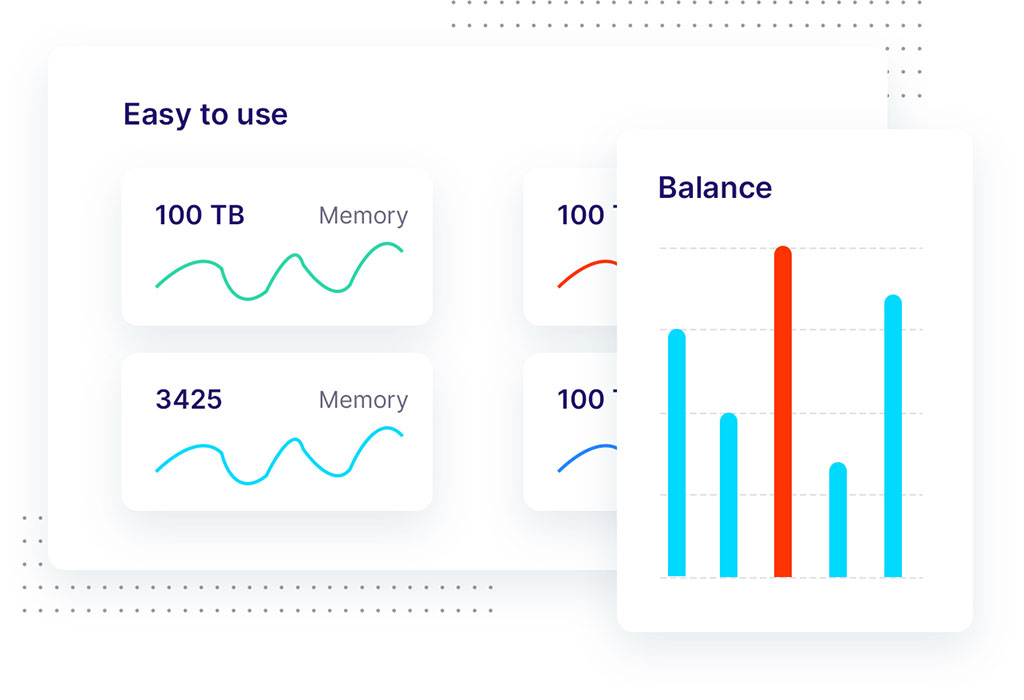
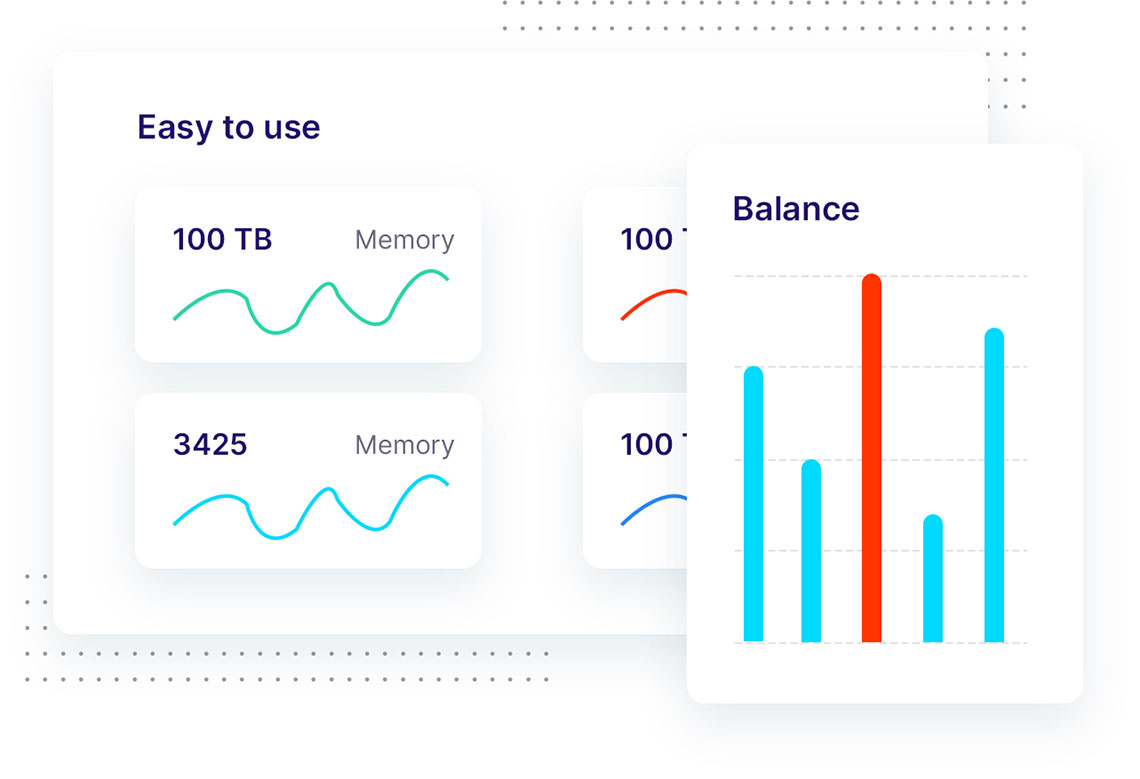
Build showcase block component.

Changed region(s): [[0.125, 0.15, 0.1875, 0.18], [0.6562, 0.27, 0.6875, 0.3], [0.25, 0.15, 0.2812, 0.18]]

diff --git a/index.html b/index.html
@@ -14,119 +14,75 @@
     <link rel="stylesheet" href="css/styles.css" />
   </head>
   <body>
-    <section class="block container">
+    <section class="block block--dark block--skewed-right block-showcase">
       <header class="block__header">
-        <h2>Host on the Cloud to Keep Growing</h2>
-        <p>
-          Lorem ipsum, dolor sit amet consectetur adipisicing elit. Enim, quasi?
-        </p>
+        <h2>User-friendly Control Panel</h2>
       </header>
-      <article class="grid grid--1x2 feature">
-        <div class="feature__content">
-          <span class="icon-container">
-            <svg class="icon">
-              <use xlink:href="images/sprite.svg#easy"></use>
-            </svg>
-          </span>
-          <h3 class="feature__heading">Super Easy to Use</h3>
-          <p>
-            Lorem ipsum dolor sit amet, consectetur adipisicing elit. Dolor,
-            quidem?
-          </p>
-          <a href="#" class="link-arrow">Learn More</a>
-        </div>
-        <picture>
+      <div class="container grid grid--1x2">
+        <pricture class="block-showcase__image">
           <source
             type="image/webp"
-            srcset="images/easy.webp 1x, images/easy@2x.webp 2x" />
+            src="images/ipad.webp 1x, images/ipad@2x.webp 2x"
+          />
           <source
-            type="image/jpg"
-            srcset="images/easy.jpg 1x, images/easy@2x.jpg 2x" />
-          <img class="feature__image" src="images/easy@2x.jpg" alt=""
-        /></picture>
-      </article>
-      <article class="grid grid--1x2 feature">
-        <div class="feature__content">
-          <span class="icon-container">
-            <svg class="icon">
-              <use xlink:href="images/sprite.svg#computer"></use>
-            </svg>
-          </span>
-          <h3 class="feature__heading">Simply fast websites</h3>
-          <p>
-            Lorem ipsum dolor sit amet, consectetur adipiscing elit, sed do
-            eiusmod tempor incididunt ut labore et dolore magna aliqua. Quis
-            ipsum suspendisse ultrices gravida. Risus commodo viverra maecenas
-            accumsan lacus vel facilisis.
-          </p>
-          <a href="#" class="link-arrow">Learn More</a>
-        </div>
-        <picture>
-          <source
-            type="image/webp"
-            srcset="images/fast.webp 1x, images/fast@2x.webp 2x" />
-          <source
-            type="image/jpg"
-            srcset="images/fast.jpg 1x, images/fast@2x.jpg 2x" />
-          <img class="feature__image" src="images/fast@2x.jpg" alt=""
-        /></picture>
-      </article>
-
-      <article class="grid grid--1x2 feature">
-        <div class="feature__content">
-          <span class="icon-container">
-            <svg class="icon">
-              <use xlink:href="images/sprite.svg#settings"></use>
-            </svg>
-          </span>
-          <h3 class="feature__heading">WordPress made easy</h3>
-          <p>
-            Lorem ipsum dolor sit amet, consectetur adipiscing elit, sed do
-            eiusmod tempor incididunt ut labore et dolore magna aliqua. Quis
-            ipsum suspendisse ultrices gravida. Risus commodo viverra maecenas
-            accumsan lacus vel facilisis.
-          </p>
-          <a href="#" class="link-arrow">Learn More</a>
-        </div>
-        <picture>
-          <source
-            type="image/webp"
-            srcset="images/wordpress.webp 1x, images/wordpress@2x.webp 2x" />
-          <source
-            type="image/jpg"
-            srcset="images/wordpress.jpg 1x, images/wordpress@2x.jpg 2x" />
-          <img class="feature__image" src="images/wordpress@2x.jpg" alt=""
-        /></picture>
-      </article>
-
-      <article class="grid grid--1x2 feature">
-        <div class="feature__content">
-          <span class="icon-container">
-            <svg class="icon">
-              <use xlink:href="images/sprite.svg#tick"></use>
-            </svg>
-          </span>
-          <h3 class="feature__heading">24/7 Expert Support</h3>
-          <p>
-            Lorem ipsum dolor sit amet, consectetur adipiscing elit, sed do
-            eiusmod tempor incididunt ut labore et dolore magna aliqua. Quis
-            ipsum suspendisse ultrices gravida. Risus commodo viverra maecenas
-            accumsan lacus vel facilisis.
-          </p>
-          <a href="#" class="link-arrow">Learn More</a>
-        </div>
-        <picture>
-          <source
-            type="image/webp"
-            srcset="images/support.webp 1x, images/support@2x.webp 2x" />
-          <source
-            type="image/jpg"
-            srcset="images/support.jpg 1x, images/support@2x.jpg 2x" />
-          <img class="feature__image" src="images/support@2x.jpg" alt=""
-        /></picture>
-      </article>
+            type="image/png"
+            src="images/ipad.png 1x, images/ipad@2x.png 2x"
+          />
+          <img src="images/ipad.png" alt="" />
+        </pricture>
+        <ul class="list">
+          <li>
+            <div class="media">
+              <div class="media__image">
+                <svg class="icon icon--primary">
+                  <use xlink:href="images/sprite.svg#tick"></use>
+                </svg>
+              </div>
+              <div class="media__body">
+                <h3 class="media__title">Easy Start & Managed Updates</h3>
+                <p>
+                  Our cloud plans include easy onboarding for new and existing
+                  sites and managed WordPress and WooCommerce auto-updates.
+                </p>
+              </div>
+            </div>
+          </li>
+          <li>
+            <div class="media">
+              <div class="media__image">
+                <svg class="icon icon--primary">
+                  <use xlink:href="images/sprite.svg#growth"></use>
+                </svg>
+              </div>
+              <div class="media__body">
+                <h3 class="media__title">Staging, Git & WP-CLI</h3>
+                <p>
+                  We make your WordPress and WooCommerce development flow easier
+                  with a convenient staging tool and Git and WP-CLI integration.
+                </p>
+              </div>
+            </div>
+          </li>
+          <li>
+            <div class="media">
+              <div class="media__image">
+                <svg class="icon icon--primary">
+                  <use xlink:href="images/sprite.svg#tick"></use>
+                </svg>
+              </div>
+              <div class="media__body">
+                <h3 class="media__title">Dynamic Caching & More</h3>
+                <p>
+                  Speed up your WordPress and Woo sites with our SG Optimizer
+                  plugin through smart dynamic caching and multiple other
+                  performance optimizations.
+                </p>
+              </div>
+            </div>
+          </li>
+        </ul>
+      </div>
     </section>
-
     <script src="js/main.js"></script>
   </body>
 </html>

diff --git a/components/showcaseBlock.html b/components/showcaseBlock.html
@@ -1,0 +1,69 @@
+<section class="block block--dark block--skewed-right block-showcase">
+  <header class="block__header">
+    <h2>User-friendly Control Panel</h2>
+  </header>
+  <div class="container grid grid--1x2">
+    <pricture class="block-showcase__image">
+      <source
+        type="image/webp"
+        src="images/ipad.webp 1x, images/ipad@2x.webp 2x"
+      />
+      <source
+        type="image/png"
+        src="images/ipad.png 1x, images/ipad@2x.png 2x"
+      />
+      <img src="images/ipad.png" alt="" />
+    </pricture>
+    <ul class="list">
+      <li>
+        <div class="media">
+          <div class="media__image">
+            <svg class="icon icon--primary">
+              <use xlink:href="images/sprite.svg#tick"></use>
+            </svg>
+          </div>
+          <div class="media__body">
+            <h3 class="media__title">Easy Start & Managed Updates</h3>
+            <p>
+              Our cloud plans include easy onboarding for new and existing sites
+              and managed WordPress and WooCommerce auto-updates.
+            </p>
+          </div>
+        </div>
+      </li>
+      <li>
+        <div class="media">
+          <div class="media__image">
+            <svg class="icon icon--primary">
+              <use xlink:href="images/sprite.svg#growth"></use>
+            </svg>
+          </div>
+          <div class="media__body">
+            <h3 class="media__title">Staging, Git & WP-CLI</h3>
+            <p>
+              We make your WordPress and WooCommerce development flow easier
+              with a convenient staging tool and Git and WP-CLI integration.
+            </p>
+          </div>
+        </div>
+      </li>
+      <li>
+        <div class="media">
+          <div class="media__image">
+            <svg class="icon icon--primary">
+              <use xlink:href="images/sprite.svg#tick"></use>
+            </svg>
+          </div>
+          <div class="media__body">
+            <h3 class="media__title">Dynamic Caching & More</h3>
+            <p>
+              Speed up your WordPress and Woo sites with our SG Optimizer plugin
+              through smart dynamic caching and multiple other performance
+              optimizations.
+            </p>
+          </div>
+        </div>
+      </li>
+    </ul>
+  </div>
+</section>

diff --git a/css/styles.css b/css/styles.css
@@ -14,7 +14,10 @@
 }
 
 /* Topography */
-
+::selection{
+    background: var(--color-primary);
+    color: #fff;
+}
 html{
     /* 62.5% of 16px = 10px */
     font-size: 62.5%;
@@ -40,6 +43,7 @@ h2{
 }
 h3{
     font-size: 3rem;
+    font-weight: 500;
    
 }
 p{
@@ -125,7 +129,7 @@ a{
 .list{
     list-style: none;
     padding-left: 0;
-    color: var(--color-headings);
+ 
 }
 .list--inline .list__item{
  display: inline-block;
@@ -135,7 +139,7 @@ a{
 .list--tick{
     list-style-image: url(../images/tick.svg);
     padding-left: 3rem;
-
+    color: var(--color-headings);
 }
 
 .list--tick .list__item{
@@ -382,6 +386,7 @@ margin-right: 1rem;
 /* Media */
 .media {
     display: flex;
+    margin-bottom: 4rem;
 }
 .media__title{
     margin-top: 0;
@@ -568,16 +573,18 @@ padding: var(--padding-vertical) 2rem;
     background: #000;
     color: #7b858b;
 }
-.block--dark .block__heading{
+.block--dark h1,
+.block--dark h2,
+.block--dark h3 {
     color: #fff;
 }
 .block--skewed-right{
     padding-bottom: calc(var(--padding-vertical) + 4rem);
-    clip-path: polygon(0% 0%, 100% 0%, 100% 100%, 0% 80%);
+    clip-path: polygon(0% 0%, 100% 0%, 100% 100%, 0% 90%);
 }
 .block--skewed-left{
     padding-bottom: calc(var(--padding-vertical) + 4rem);
-    clip-path: polygon(0% 0%, 100% 0%, 100% 80%, 0% 100%);
+    clip-path: polygon(0% 0%, 100% 0%, 100% 90%, 0% 100%);
 }
 .container{
     max-width: 1140px;
@@ -642,9 +649,7 @@ padding: var(--padding-vertical) 2rem;
 }
 
 /* Hero */
-.hero{
-    clip-path: polygon(0% 0%, 100% 0%, 100% 90%, 0% 100%);
-}
+
 .hero__tagline{
     font-size: 2rem;
     color: #b9c3cf;
@@ -717,5 +722,23 @@ padding: var(--padding-vertical) 2rem;
 @media screen and (min-width:768px) {
     .feature:nth-last-of-type(even) .feature__content{
         order: 2;
+    }
+}
+
+/* Showcase Block */
+.block-showcase__image >img{
+    width: 100%;
+}
+@media screen and (min-width: 768px) {
+    .block-showcase .grid{
+        grid-template-columns: 50% 50%;
+    }
+    .block-showcase__image{
+        
+        justify-self: end;
+    }
+    .block-showcase__image >img{
+        width: auto;
+        max-width: 700px;
     }
 }
